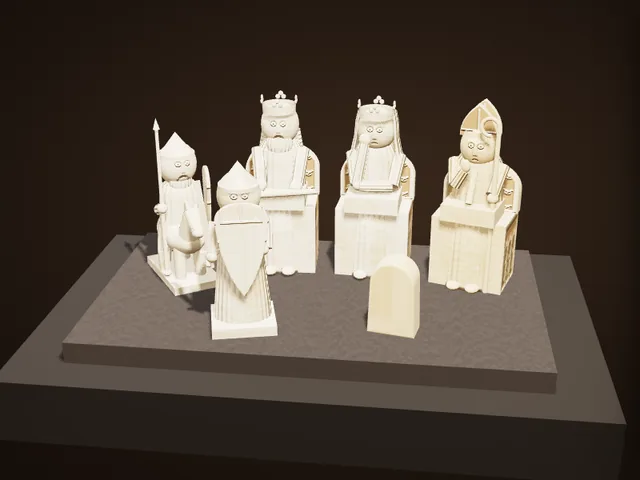
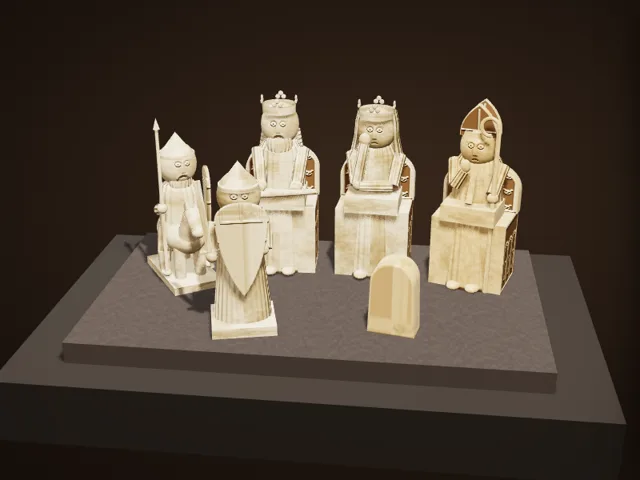
博物館：ルイス島のチェス駒の象牙の色を大英博物館の3Dスキャンに合わせて修正
Claude-Session: https://claude.ai/code/session_01EiWRAZTxRF5M5nk5vdR2jJ

Changed region(s): [[0.2188, 0.1875, 0.8125, 0.7188]]

diff --git a/atlas/museum/ex/lewis.js b/atlas/museum/ex/lewis.js
@@ -4,7 +4,8 @@
    a seated bishop (mitre, crozier), a knight on a small horse (spear, kite shield), a warder biting his shield (the
    "berserker") and a slab pawn. Heights follow the museum records of representative pieces (king 9.8, queen 9.6,
    bishop 9.7, knight 10.0, warder 9.2, pawn 4.0 cm); the carving on the thrones (arcades, foliage scrolls) is drawn in the
-   manner of the pieces, not copied from one throne (estimate). The red that Madden saw on a few pieces in 1831 is gone today. */
+   manner of the pieces, not copied from one throne (estimate). The red that Madden saw on a few pieces in 1831 is gone today.
+   2026-11-21: the ivory's colour (grey-tan, mottled with brown staining) checked against the British Museum's 3D scans (Sketchfab). */
 (function () {
   'use strict';
   (window.AtlasEx = window.AtlasEx || {}).lewis = {
@@ -14,23 +15,23 @@
       const V3 = (x, y, z) => new TT.Vector3(x, y, z);
       // ---- ivory: warm white with fine growth lines, a little darker / yellower piece by piece, hairline cracks
       const ivoryTex = (k) => K.tex(512, 512, (g, w, h) => {
-        K.grain(g, w, h, { a: '#f0e5cc', b: '#e0cda8', seed: 40 + k, sx: 1.2, sy: 18, warp: .9 });
+        K.grain(g, w, h, { a: '#cfc0a0', b: '#c2b190', seed: 40 + k, sx: 1.2, sy: 18, warp: .9 });   // aged walrus ivory, cream to tan (the British Museum's 3D scans)
         const n = K.noise(70 + k); const img = g.getImageData(0, 0, w, h), d = img.data;
-        for (let y = 0; y < h; y++) for (let x = 0; x < w; x++) { const a = n(x / 120, y / 120, 4), s = Math.max(0, a - .5) * 70, i = (y * w + x) * 4; d[i] -= s * .6; d[i + 1] -= s * .8; d[i + 2] -= s * 1.25; }
+        for (let y = 0; y < h; y++) for (let x = 0; x < w; x++) { const a = n(x / 120, y / 120, 4), s = Math.max(0, a - .42) * 150 + (n(x / 14, y / 14, 2) - .5) * 30, i = (y * w + x) * 4; d[i] -= s * .7; d[i + 1] -= s * .8; d[i + 2] -= s * .95; }   // mottled brown staining
         g.putImageData(img, 0, 0);
         g.strokeStyle = 'rgba(90,64,36,.45)'; g.lineWidth = 1;
         for (let q = 0; q < 5; q++) { let x = rnd() * w, y = rnd() * h; g.beginPath(); g.moveTo(x, y); for (let s = 0; s < 8; s++) { x += (rnd() - .5) * 18; y += 8 + rnd() * 14; g.lineTo(x, y); } g.stroke(); }
       });
-      const IV = [0, 1, 2].map(k => K.mat({ map: ivoryTex(k), color: k === 2 ? '#f0e2c4' : '#ffffff', roughness: .44, clearcoat: .18, clearcoatRoughness: .55, sheen: .25, sheenRoughness: .6, sheenColor: K.lin('#fff1d6') }));
+      const IV = [0, 1, 2].map(k => K.mat({ map: ivoryTex(k), color: k === 2 ? '#eedcb8' : '#ffffff', roughness: .5, clearcoat: .18, clearcoatRoughness: .55, sheen: .25, sheenRoughness: .6, sheenColor: K.lin('#fff1d6') }));
       // ---- carving: an ornament drawn white on black is both the relief (bump) and the grime in the cut-back ground
       const carved = (draw, rep) => {
         const W = 512, H = 512, bc = document.createElement('canvas'); bc.width = W; bc.height = H; const b = bc.getContext('2d');
         b.fillStyle = '#000'; b.fillRect(0, 0, W, H); b.strokeStyle = b.fillStyle = '#fff'; b.lineCap = b.lineJoin = 'round'; draw(b, W, H);
         b.filter = 'blur(2px)'; b.drawImage(bc, 0, 0); b.filter = 'none';
         const map = K.tex(W, H, (g, w, h) => {
-          K.grain(g, w, h, { a: '#eee2c6', b: '#dccaa4', seed: 9, sx: 1.2, sy: 18, warp: .9 });
+          K.grain(g, w, h, { a: '#cbbb9a', b: '#bfae8c', seed: 9, sx: 1.2, sy: 18, warp: .9 });
           const m = document.createElement('canvas'); m.width = w; m.height = h; const mg = m.getContext('2d');
-          mg.fillStyle = '#c4a983'; mg.fillRect(0, 0, w, h); mg.globalCompositeOperation = 'lighter'; mg.drawImage(bc, 0, 0);
+          mg.fillStyle = '#8a6a44'; mg.fillRect(0, 0, w, h); mg.globalCompositeOperation = 'lighter'; mg.drawImage(bc, 0, 0);
           g.globalCompositeOperation = 'multiply'; g.drawImage(m, 0, 0); g.globalCompositeOperation = 'source-over';
         }, rep ? { rep } : {});
         const bump = new TT.CanvasTexture(bc); bump.colorSpace = TT.NoColorSpace; if (rep) { bump.wrapS = bump.wrapT = TT.RepeatWrapping; bump.repeat.set(rep[0], rep[1]); }

diff --git a/atlas/museum.js b/atlas/museum.js
@@ -32,7 +32,7 @@
   const ROOMS = [
     { id: 'map', ready: () => !!window.AtlasMap, render: (el, c) => AtlasMap.render(el, c) },
     { id: 'tree', src: ['museum/tree.js?v=2'], ready: () => !!window.AtlasTree, render: (el, c) => AtlasTree.render(el, c) },
-    { id: 'gallery', src: ['museum/gallery.js?v=22'], ready: () => !!window.AtlasGallery, render: (el, c) => AtlasGallery.render(el, c) },
+    { id: 'gallery', src: ['museum/gallery.js?v=23'], ready: () => !!window.AtlasGallery, render: (el, c) => AtlasGallery.render(el, c) },
   ];
   const KEY = 'atlas-museum-room';
   const esc = s => String(s == null ? '' : s).replace(/[&<>"]/g, c => ({ '&': '&amp;', '<': '&lt;', '>': '&gt;', '"': '&quot;' }[c]));

diff --git a/atlas/index.html b/atlas/index.html
@@ -2559,7 +2559,7 @@ window.AtlasRgdTimer = function (btn, ms, alive) {
 <link rel="stylesheet" href="worldmap.css?v=19">
 <link rel="stylesheet" href="museum.css?v=4">
 <script src="worldmap.js?v=40"></script>
-<script src="museum.js?v=23"></script>
+<script src="museum.js?v=24"></script>
 <script src="npc/npc.js?v=46"></script>
 <script src="avtalk.js?v=4"></script>
 <script>/* Page states as classes on <html> (2026-11-21) — html.cov-on: the 3D view / Historia / a sheet / a level sheet is open;

diff --git a/atlas/museum/gallery.js b/atlas/museum/gallery.js
@@ -10,7 +10,7 @@
    (a turn, a zoom, the slow turntable) and never while the window is in the background. */
 (function () {
   'use strict';
-  const V = 22;
+  const V = 23;
   /* ---------- the pieces: id, the game it belongs to, its scale (cm per model unit), the camera's start, the details ----------
      lock: { game, ach } → open after that many achievements of the game. src: the files the piece needs (besides ex/<id>.js) */
   const EX = [

diff --git a/claude/museum-spec.md b/claude/museum-spec.md
@@ -52,6 +52,7 @@
     記録：オスマン帝国の盤のチェス面（V&A 2012FP3719）total 10.8 → 43.1（2026-11-21、濃い鼈甲、4枚組の螺鈿のマスと中央の星、S字の鎖、骨の縁。側面に螺鈿の六角形、板の厚さを記録に合わせ2.5cmに）。
     記録：興福寺の将棋駒（文化遺産オンライン 413142 の写真）2026-11-21：木の色を暖かい黄褐色に、駒を幅と高さがほぼ同じ・肩の低い形に、墨を大きくにじませ木目に沿ってかすれさせた（数値は撮影条件が違うため目視で比較）。
     記録：バリンダリーの盤（Discovery Programme／アイルランド国立博物館の3Dスキャン、Sketchfab）2026-11-21：灰色がかった焦げ茶の木、小さく浅い穴、中央の二重の輪と四隅をまたぐ四分円、すり減った彫りに修正（目視比較）。
+    記録：ルイス島のチェス駒（大英博物館の3Dスキャン、Sketchfab）2026-11-21：象牙の色を灰色がかった黄褐色＋茶色のしみに修正。**形は未対応で実物と大きく違う**（実物は低く詰まった塊に大きな頭、玉座は背の丸い板。現状は細長く、玉座が箱形で大きい）。次に作り直す。
   - スマホで遠目に見たときのちらつき・白飛びがないこと（カメラの near/far を狭く、テクスチャはミップマップと異方性フィルタ、トーンマップの露出 .85、重なる面は polygonOffset）。
 - 収蔵品（2026-11-21）：
   - ウルの王族のゲーム盤（大英博物館 120834）— ポータルのウルの3D盤（`atlas/models/ur.js`）をそのまま使う（実物そっくりの出来）。
